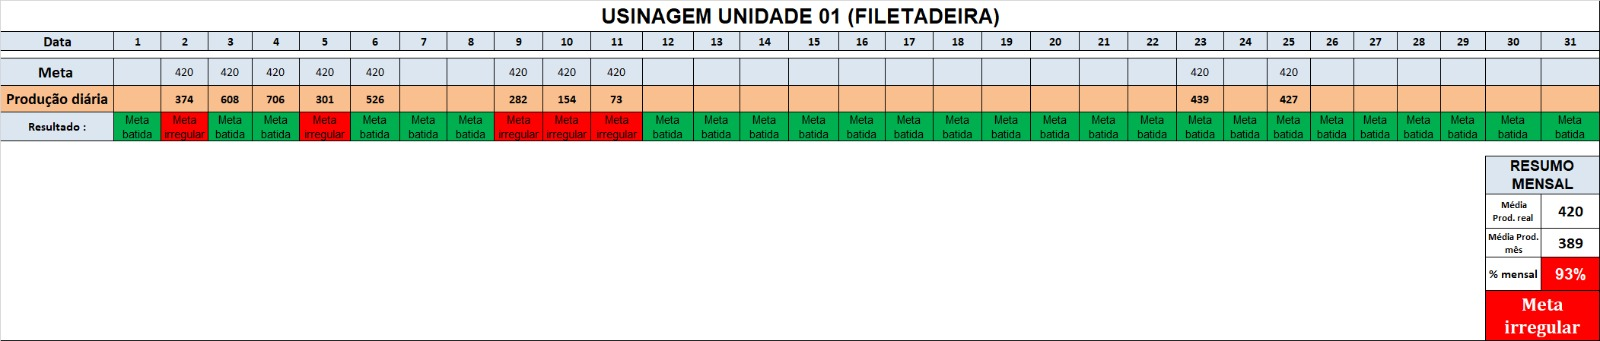
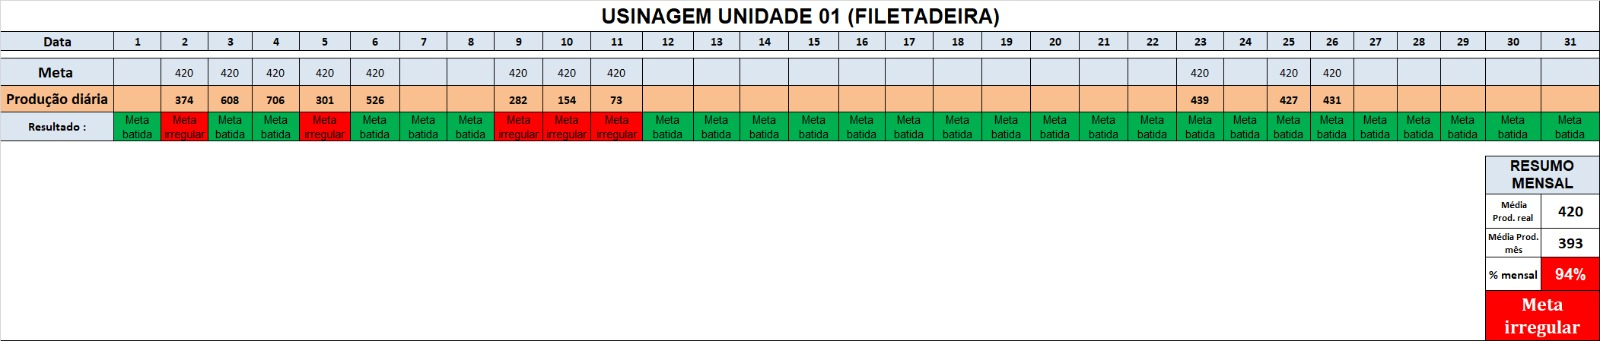
kk

diff --git a/back__incial.js b/back__incial.js
@@ -346,7 +346,7 @@ const unidades = {
             { data: "11/02/2026", captura: ["capturas/Unidade 1/2026/fevereiro/Usinagem/Filetação/11.jpg" , "capturas/Unidade 1/2026/fevereiro/cnc/11.jpg"] },
             { data: "23/02/2026", captura: ["capturas/Unidade 1/2026/fevereiro/Usinagem/Filetação/23.jpg" , "capturas/Unidade 1/2026/fevereiro/cnc/23.jpg"] },
             { data: "25/02/2026", captura: ["capturas/Unidade 1/2026/fevereiro/Usinagem/Filetação/26.jpg" , "capturas/Unidade 1/2026/fevereiro/cnc/26.jpg"] },
-
+            { data: "26/02/2026", captura: ["capturas/Unidade 1/2026/fevereiro/Usinagem/Filetação/26.jpg" , "capturas/Unidade 1/2026/fevereiro/cnc/26.jpg"] },
             
 
             // { data: "", captura: ["" , ""] },
@@ -482,7 +482,7 @@ const unidades = {
             { data: "09/02/2026", captura: ["capturas/Unidade 2/Estofaria/2026/02-FEVEREIRO/09-pt1.jpg", "capturas/Unidade 2/Estofaria/2026/02-FEVEREIRO/09-pt2.jpg", "capturas/Unidade 2/Estofaria/2026/02-FEVEREIRO/09-pt3.jpg", "capturas/Unidade 2/Estofaria/2026/02-FEVEREIRO/09-pt4.jpg"] },
             { data: "10/02/2026", captura: ["capturas/Unidade 2/Estofaria/2026/02-FEVEREIRO/10-pt1.jpg", "capturas/Unidade 2/Estofaria/2026/02-FEVEREIRO/10-pt2.jpg", "capturas/Unidade 2/Estofaria/2026/02-FEVEREIRO/10-pt3.jpg", "capturas/Unidade 2/Estofaria/2026/02-FEVEREIRO/10-pt4.jpg"] },
             { data: "25/02/2026", captura: ["capturas/Unidade 2/Estofaria/2026/02-FEVEREIRO/25-pt1.jpg", "capturas/Unidade 2/Estofaria/2026/02-FEVEREIRO/25-pt2.jpg", "capturas/Unidade 2/Estofaria/2026/02-FEVEREIRO/25-pt3.jpg", "capturas/Unidade 2/Estofaria/2026/02-FEVEREIRO/25-pt4.jpg"] },
-
+            { data: "26/02/2026", captura: ["capturas/Unidade 2/Estofaria/2026/02-FEVEREIRO/26-pt1.jpg", "capturas/Unidade 2/Estofaria/2026/02-FEVEREIRO/26-pt2.jpg", "capturas/Unidade 2/Estofaria/2026/02-FEVEREIRO/26-pt3.jpg", "capturas/Unidade 2/Estofaria/2026/02-FEVEREIRO/26-pt4.jpg"] },
 
 
             // { data: "", captura: ["", "", "", ""] },
